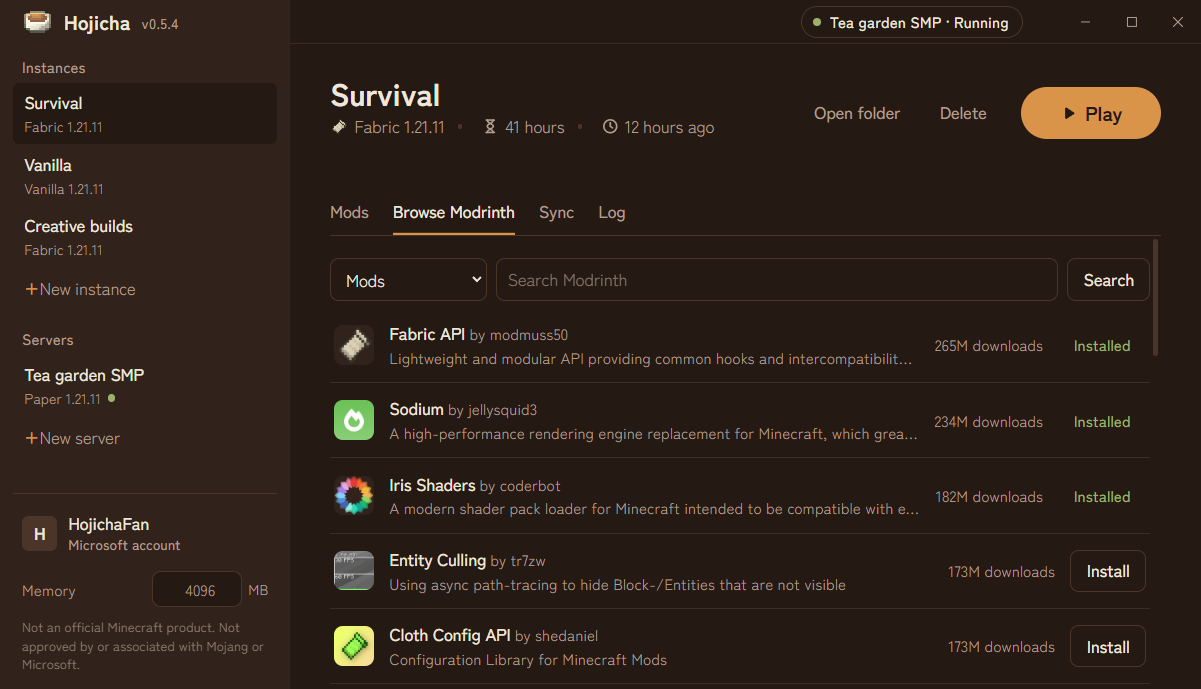
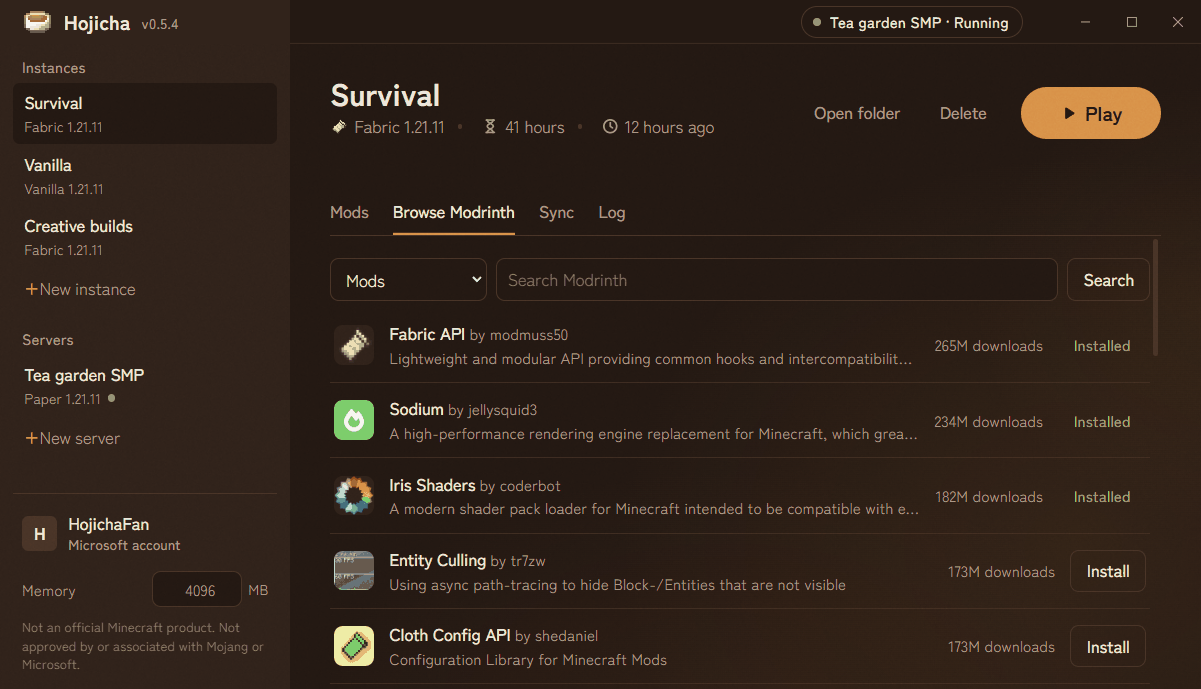
Grain and warm light, safe closing with servers running, one launcher at a time; release 0.5.5
- A faint grain over the window and a soft, uneven warm light in the lower right
  of the main area. Colours are otherwise unchanged; the title bar stays flat.
- Closing the launcher while a server runs now asks first, then saves and stops
  the server before the window closes, instead of vanishing while the server
  stops in the background.
- Only one launcher can run at a time; opening it again brings the running
  window to the front.
- Removed the custom domain option for online play: playit.gg's free tunnels
  only accept their own addresses.
- README screenshots re-rendered for the new look, as smaller palette PNGs.

diff --git a/src/renderer/app.js b/src/renderer/app.js
@@ -175,6 +175,45 @@ function renderActivity() {
   pill.onclick = () => active[0]?.go();
 }
 
+// ---------- Closing with servers running ----------
+
+let stoppingToClose = false;
+
+api.onCloseRequested((names) => {
+  if (stoppingToClose) return; // already stopping; the window closes when that's done
+  const list = names.length === 1 ? names[0] : `${names.slice(0, -1).join(', ')} and ${names[names.length - 1]}`;
+  const plural = names.length > 1;
+  $('#close-title').textContent = plural ? 'Stop the servers first?' : 'Stop the server first?';
+  $('#close-text').textContent = `${list} ${plural ? 'are' : 'is'} still running. Hojicha saves the world and stops `
+    + `${plural ? 'them' : 'it'} before closing, which can take up to a minute.`;
+  $('#close-error').textContent = '';
+  $('#close-confirm').disabled = false;
+  $('#close-confirm').textContent = plural ? 'Stop servers and close' : 'Stop server and close';
+  $('#close-cancel').disabled = false;
+  if (!$('#close-dialog').open) $('#close-dialog').showModal();
+});
+
+$('#close-cancel').onclick = () => $('#close-dialog').close();
+$('#close-confirm').onclick = async () => {
+  stoppingToClose = true;
+  $('#close-confirm').disabled = true;
+  $('#close-cancel').disabled = true;
+  $('#close-confirm').textContent = 'Saving and stopping…';
+  try {
+    await api.stopServersAndClose();
+  } catch (err) {
+    stoppingToClose = false;
+    $('#close-error').textContent = errorText(err);
+    $('#close-cancel').disabled = false;
+    $('#close-confirm').disabled = false;
+    $('#close-confirm').textContent = 'Try again';
+  }
+};
+// While servers are stopping, Escape mustn't hide the dialog: the window is about to close.
+$('#close-dialog').addEventListener('cancel', (event) => {
+  if (stoppingToClose) event.preventDefault();
+});
+
 // ---------- Updates ----------
 
 let update = { state: 'none' };
@@ -604,7 +643,7 @@ function renderServer() {
 
 // ---------- Online play ----------
 
-let playitState = { linked: false, domain: '' };
+let playitState = { linked: false };
 let linking = false;
 const serverOnline = {}; // server id -> { state: off | connecting | online | error, address, srv, text }
 
@@ -650,18 +689,16 @@ function renderOnline() {
   if (!isPublic) return;
 
   const address = $('#online-address');
-  const domain = playitState.domain;
   address.className = live.state === 'online' ? '' : 'waiting';
   $('#online-manual').hidden = live.state !== 'manual';
   if (live.state === 'manual') $('#manual-target').textContent = `127.0.0.1:${live.port}`;
   address.textContent = {
-    online: domain || live.address,
+    online: live.address,
     connecting: 'Connecting to playit.gg…',
     manual: 'Waiting for the tunnel on playit.gg…',
     error: 'Not connected',
     off: 'Appears when the server starts',
   }[live.state];
-  $('#online-alt').textContent = live.state === 'online' && domain ? `or ${live.address}` : '';
   $('#copy-address').hidden = live.state !== 'online';
 
   const you = account?.type === 'microsoft' ? account.name : null;
@@ -673,16 +710,6 @@ function renderOnline() {
       return el('li', {}, [name, remove]);
     }),
   );
-
-  if (document.activeElement !== $('#public-domain')) $('#public-domain').value = domain;
-  const record = domain && live.srv ? `_minecraft._tcp.${domain}  SRV  0 5 ${live.srv.port} ${live.srv.host}` : '';
-  $('#srv-record').textContent = record;
-  $('#srv-record-row').hidden = !record;
-  $('#srv-record-hint').textContent = !domain
-    ? 'Have a domain? Enter it to give friends a short address instead of playit\'s.'
-    : record
-      ? 'Add this SRV record at your domain\'s DNS provider. It can take a few minutes to work.'
-      : 'Start the server once to see the DNS record to add.';
 }
 
 // Applies a server change from the main process (whitelist, public switch) and redraws.
@@ -752,16 +779,6 @@ $('#whitelist-form').onsubmit = async (event) => {
   if (!$('#online-error').textContent) input.value = '';
 };
 $('#copy-address').onclick = (event) => copyText($('#online-address').textContent, event.target);
-$('#copy-srv').onclick = (event) => copyText($('#srv-record').textContent, event.target);
-$('#public-domain').onchange = async (event) => {
-  try {
-    const saved = await api.saveSettings({ publicDomain: event.target.value });
-    playitState.domain = saved.publicDomain;
-  } catch (err) {
-    $('#online-error').textContent = errorText(err);
-  }
-  renderOnline();
-};
 $('#playit-unlink').onclick = async () => {
   if (!confirm('Disconnect playit.gg? Online play stops working until you set it up again. Your tunnel stays in your playit.gg account.')) return;
   try {

diff --git a/src/main.js b/src/main.js
@@ -32,6 +32,17 @@ paths.setRoot(HOME);
 storage.carryOverEncryptionKey(HOME, app.getPath('appData'), paths.electron);
 app.setPath('userData', paths.electron);
 
+// One launcher at a time: two would start the same servers and games and write the same files. Opening it again
+// brings the running window to the front instead (the lock belongs to the userData folder set just above).
+const firstInstance = app.requestSingleInstanceLock();
+if (!firstInstance) app.quit();
+app.on('second-instance', () => {
+  if (!win || win.isDestroyed()) return;
+  if (win.isMinimized()) win.restore();
+  win.show();
+  win.focus();
+});
+
 let win = null;
 // Instance id -> child process (or null while it is still installing).
 const running = new Map();
@@ -70,9 +81,8 @@ async function goOnline(id) {
       send('server-log', { id, line: `[playit] Creating the tunnel failed: ${err.endpoint} answered ${err.reply}` });
       setOnline(id, { state: 'manual', port });
     });
-    const srv = await playit.srvTarget(address);
     if (!servers.isRunning(id)) return; // stopped while connecting; goOffline already cleaned up
-    setOnline(id, { state: 'online', address, srv });
+    setOnline(id, { state: 'online', address });
   } catch (err) {
     if (err.endpoint) send('server-log', { id, line: `[playit] ${err.endpoint} answered ${err.reply}` });
     if (!servers.isRunning(id)) return;
@@ -231,7 +241,7 @@ function registerIpc() {
   handle('servers:whitelistAdd', (id, name) => servers.addToWhitelist(id, name));
   handle('servers:whitelistRemove', (id, name) => servers.removeFromWhitelist(id, name));
 
-  handle('playit:status', () => ({ linked: playit.isLinked(), domain: settings.get().publicDomain }));
+  handle('playit:status', () => ({ linked: playit.isLinked() }));
   handle('playit:linkStart', async () => {
     const url = await playit.startLink();
     shell.openExternal(url);
@@ -245,6 +255,11 @@ function registerIpc() {
   });
 
   handle('app:version', () => app.getVersion());
+  handle('app:stopServersAndClose', async () => {
+    await servers.stopAll();
+    allowClose = true;
+    if (win && !win.isDestroyed()) win.close();
+  });
   handle('update:get', () => update);
   handle('update:install', () => {
     if (update.state !== 'ready') return;
@@ -262,6 +277,8 @@ function registerIpc() {
 const ZOOM = 1.1;
 const TITLEBAR_HEIGHT = Math.round(40 * ZOOM);
 
+let allowClose = false; // set once running servers have stopped after the player chose to close
+
 function createWindow() {
   win = new BrowserWindow({
     width: 1200,
@@ -278,6 +295,16 @@ function createWindow() {
     webPreferences: { preload: path.join(__dirname, 'preload.js'), zoomFactor: ZOOM },
   });
   win.removeMenu();
+  // Closing while a server runs keeps the window open and asks first (see the close dialog in the UI): the server
+  // has to save and stop, and the launcher shouldn't look closed while that happens.
+  win.on('close', (event) => {
+    const runningServers = servers.list().filter((s) => servers.isRunning(s.id));
+    if (allowClose || !runningServers.length) return;
+    event.preventDefault();
+    if (win.isMinimized()) win.restore();
+    win.focus();
+    send('close-requested', runningServers.map((s) => s.name));
+  });
   win.webContents.setWindowOpenHandler(() => ({ action: 'deny' }));
   win.webContents.on('will-navigate', (event) => event.preventDefault());
   win.loadFile(path.join(__dirname, 'renderer', 'index.html'));
@@ -324,6 +351,7 @@ function showMovingWindow() {
 }
 
 app.whenReady().then(async () => {
+  if (!firstInstance) return;
   const moves = storage.pendingMoves(HOME, app.getPath('appData'));
   let moving = null;
   if (moves.length) {

diff --git a/src/renderer/style.css b/src/renderer/style.css
@@ -244,7 +244,21 @@ input:focus-visible, select:focus-visible { outline: none; }
 
 /* ---------- Sidebar ---------- */
 
-.app { flex: 1; min-height: 0; display: flex; }
+.app { flex: 1; min-height: 0; display: flex; position: relative; }
+
+/* A faint grain over the window, like washi paper. Overlay on these dark colours adds texture without changing
+   them; keep it barely visible. The title bar stays flat to match the window buttons Windows paints there. */
+.app::after, dialog::after {
+  content: "";
+  position: absolute;
+  inset: 0;
+  z-index: 100;
+  pointer-events: none;
+  border-radius: inherit;
+  background: url("textures/grain.png") 0 0 / 256px;
+  mix-blend-mode: overlay;
+  opacity: 0.06;
+}
 
 #sidebar {
   width: var(--sidebar-width);
@@ -335,7 +349,19 @@ input:focus-visible, select:focus-visible { outline: none; }
 
 /* ---------- Main ---------- */
 
-main { flex: 1; min-width: 0; display: flex; flex-direction: column; }
+/* A faint, uneven warm light over the lower right of the main area, like warmth spreading through tea: three soft
+   patches of tea-liquor amber and roasted orange that overlap into one wash. All fade out before the title bar,
+   where Windows paints its window buttons in the plain background colour. */
+main {
+  flex: 1;
+  min-width: 0;
+  display: flex;
+  flex-direction: column;
+  background:
+    radial-gradient(70% 85% at 86% 78%, rgba(217, 148, 74, 0.09), transparent 72%),
+    radial-gradient(65% 55% at 48% 104%, rgba(176, 100, 56, 0.07), transparent 70%),
+    radial-gradient(38% 48% at 102% 40%, rgba(217, 148, 74, 0.06), transparent 72%);
+}
 
 .empty-state {
   margin: auto;
@@ -529,8 +555,6 @@ button.outline:hover:not(:disabled) { border-color: var(--liquor-bright); color:
 .online-value { flex: 1; min-width: 0; display: flex; flex-direction: column; gap: 6px; padding-top: 3px; }
 .online-value code { font: 500 var(--text-m) var(--mono); color: var(--steam); overflow-wrap: anywhere; }
 .online-value code.waiting { font-family: var(--font); font-weight: 400; color: var(--steam-dim); }
-.online-alt { font-size: var(--text-xs); color: var(--steam-dim); }
-.online-alt:empty { display: none; }
 
 .online-manual { display: flex; flex-direction: column; align-items: flex-start; gap: 10px; padding: 12px 14px; border-radius: 10px; background: var(--kiln); font-size: var(--text-s); color: var(--steam-dim); }
 .online-manual[hidden] { display: none; }
@@ -546,13 +570,6 @@ button.outline:hover:not(:disabled) { border-color: var(--liquor-bright); color:
 .whitelist-form input { flex: 1; min-width: 0; padding: 5px 10px; }
 .whitelist-form button { padding: 5px 12px; }
 
-.online-domain summary { cursor: pointer; color: var(--steam-dim); font-size: var(--text-s); width: fit-content; }
-.online-domain summary:hover { color: var(--steam); }
-.online-domain[open] { display: flex; flex-direction: column; gap: 10px; }
-.online-domain .field { max-width: 360px; margin-top: 8px; }
-.srv-record { display: flex; align-items: center; gap: 8px; padding: 8px 12px; border-radius: 8px; background: var(--roast-deep); }
-.srv-record[hidden] { display: none; }
-.srv-record code { flex: 1; min-width: 0; font: 12px var(--mono); color: var(--steam); overflow-wrap: anywhere; }
 #playit-unlink { align-self: flex-start; padding-left: 0; padding-right: 0; }
 
 /* ---------- Dialogs ---------- */

diff --git a/src/renderer/index.html b/src/renderer/index.html
@@ -174,7 +174,6 @@
               <span class="online-label">Address</span>
               <span class="online-value">
                 <code id="online-address"></code>
-                <span id="online-alt" class="online-alt"></span>
               </span>
               <button type="button" id="copy-address" class="quiet">Copy</button>
             </div>
@@ -194,18 +193,7 @@
                 </form>
               </span>
             </div>
-            <details class="online-domain">
-              <summary>Your own domain and playit.gg</summary>
-              <label class="field">Domain friends type in (optional)
-                <input id="public-domain" placeholder="mc.example.com" spellcheck="false" autocomplete="off">
-              </label>
-              <p id="srv-record-hint" class="hint"></p>
-              <div id="srv-record-row" class="srv-record" hidden>
-                <code id="srv-record"></code>
-                <button type="button" id="copy-srv" class="quiet">Copy</button>
-              </div>
-              <button type="button" id="playit-unlink" class="quiet danger">Disconnect playit.gg</button>
-            </details>
+            <button type="button" id="playit-unlink" class="quiet danger">Disconnect playit.gg</button>
           </div>
           <div id="online-error" class="error"></div>
         </section>
@@ -277,6 +265,18 @@
         <button type="submit" class="primary" id="server-create">Create server</button>
       </div>
     </form>
+  </dialog>
+
+  <dialog id="close-dialog">
+    <div class="dialog-body">
+      <h2 id="close-title">Stop the server first?</h2>
+      <p id="close-text" class="hint"></p>
+      <div id="close-error" class="error"></div>
+      <div class="dialog-actions">
+        <button type="button" id="close-cancel" class="quiet">Keep running</button>
+        <button type="button" id="close-confirm" class="primary">Stop and close</button>
+      </div>
+    </div>
   </dialog>
 
   <dialog id="versions-dialog">

diff --git a/src/core/playit.js b/src/core/playit.js
@@ -1,7 +1,6 @@
 const fs = require('fs');
 const path = require('path');
 const crypto = require('crypto');
-const dns = require('dns').promises;
 const readline = require('readline');
 const { spawn } = require('child_process');
 const paths = require('./paths');
@@ -209,21 +208,7 @@ async function ensureTunnel(port, onManual = () => {}) {
   }
 }
 
-// What a custom domain's SRV record should point at. playit's Minecraft addresses carry their own SRV record,
-// so the real host and port come from DNS; an address with an explicit :port is used as it is.
-async function srvTarget(address) {
-  const explicit = address.match(/^(.+):(\d+)$/);
-  if (explicit) return { host: explicit[1], port: Number(explicit[2]) };
-  try {
-    const [record] = await dns.resolveSrv(`_minecraft._tcp.${address}`);
-    if (record) return { host: record.name, port: record.port };
-  } catch {
-    // No SRV record: the address is used on the default port.
-  }
-  return { host: address, port: 25565 };
-}
-
 module.exports = {
   setCipher, isLinked, startLink, finishLink, cancelLink, unlink,
-  startAgent, stopAgent, stopAll, ensureTunnel, srvTarget, CLAIM_PAGE, TUNNELS_PAGE,
+  startAgent, stopAgent, stopAll, ensureTunnel, CLAIM_PAGE, TUNNELS_PAGE,
 };

diff --git a/src/core/settings.js b/src/core/settings.js
@@ -2,13 +2,12 @@ const paths = require('./paths');
 const { readJson, writeJson } = require('./util');
 
 // Player names come from accounts.js; settings only hold launcher preferences.
-// publicDomain: the player's own domain for online play (like mc.example.com), shown instead of playit's address.
-const DEFAULTS = { memoryMb: 4096, javaPath: '', publicDomain: '' };
+const DEFAULTS = { memoryMb: 4096, javaPath: '' };
 
 function get() {
   try {
-    const { memoryMb, javaPath, publicDomain } = { ...DEFAULTS, ...readJson(paths.settingsFile) };
-    return { memoryMb, javaPath, publicDomain };
+    const { memoryMb, javaPath } = { ...DEFAULTS, ...readJson(paths.settingsFile) };
+    return { memoryMb, javaPath };
   } catch {
     return { ...DEFAULTS };
   }
@@ -17,8 +16,6 @@ function get() {
 function save(patch) {
   const settings = { ...get(), ...patch };
   settings.memoryMb = Math.max(512, Number(settings.memoryMb) || DEFAULTS.memoryMb);
-  settings.publicDomain = String(settings.publicDomain || '').trim().toLowerCase()
-    .replace(/^https?:\/\//, '').replace(/[/:].*$/, '');
   writeJson(paths.settingsFile, settings);
   return settings;
 }

diff --git a/src/preload.js b/src/preload.js
@@ -52,6 +52,8 @@ contextBridge.exposeInMainWorld('launcher', {
   joinServer: (id, instanceId) => invoke('servers:join', id, instanceId),
 
   getVersion: () => invoke('app:version'),
+  stopServersAndClose: () => invoke('app:stopServersAndClose'),
+  onCloseRequested: (callback) => ipcRenderer.on('close-requested', (_event, names) => callback(names)),
   getUpdate: () => invoke('update:get'),
   installUpdate: () => invoke('update:install'),
   onUpdate: (callback) => ipcRenderer.on('update', (_event, data) => callback(data)),

diff --git a/README.md b/README.md
@@ -90,9 +90,6 @@ While a server is public it runs in **online mode with an enforced whitelist**, 
 accounts get in. Players keep a separate save per mode, because Minecraft stores player data by account ID: someone
 who played in offline mode starts from their online-mode save when the server is public.
 
-To give friends a short address of your own, enter a domain like `mc.example.com` and add the SRV record the tab
-shows at your DNS provider. Friends then type just `mc.example.com`.
-
 ## Install
 
 Download the installer from the [Releases](../../releases) page, or build it yourself (below). The installer is not
@@ -177,7 +174,7 @@ build/                    pixel-art logo (logo.png, 16x16), icons and installer 
 - Windows only for now.
 - No Forge, NeoForge or Quilt yet.
 - Synced `options.txt` is shared as-is, so syncing it between very different versions can mix up settings.
-- A custom domain points at one tunnel: the server on port 25565.
+- Online play uses playit.gg's own address for each server; your own domain isn't supported.
 
 ## Contact
 
